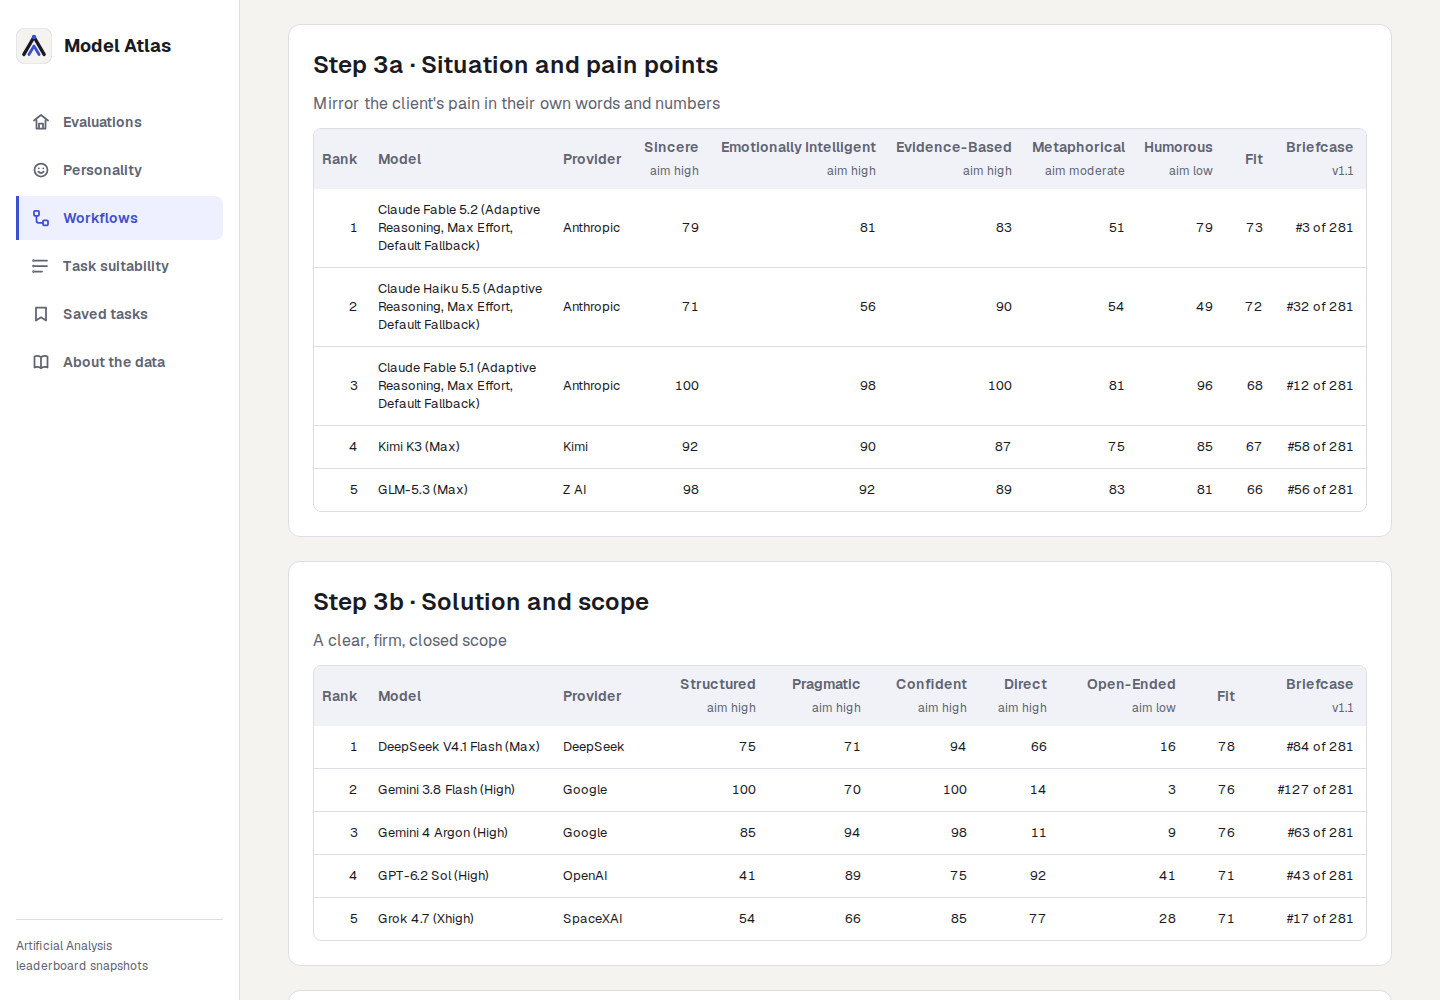
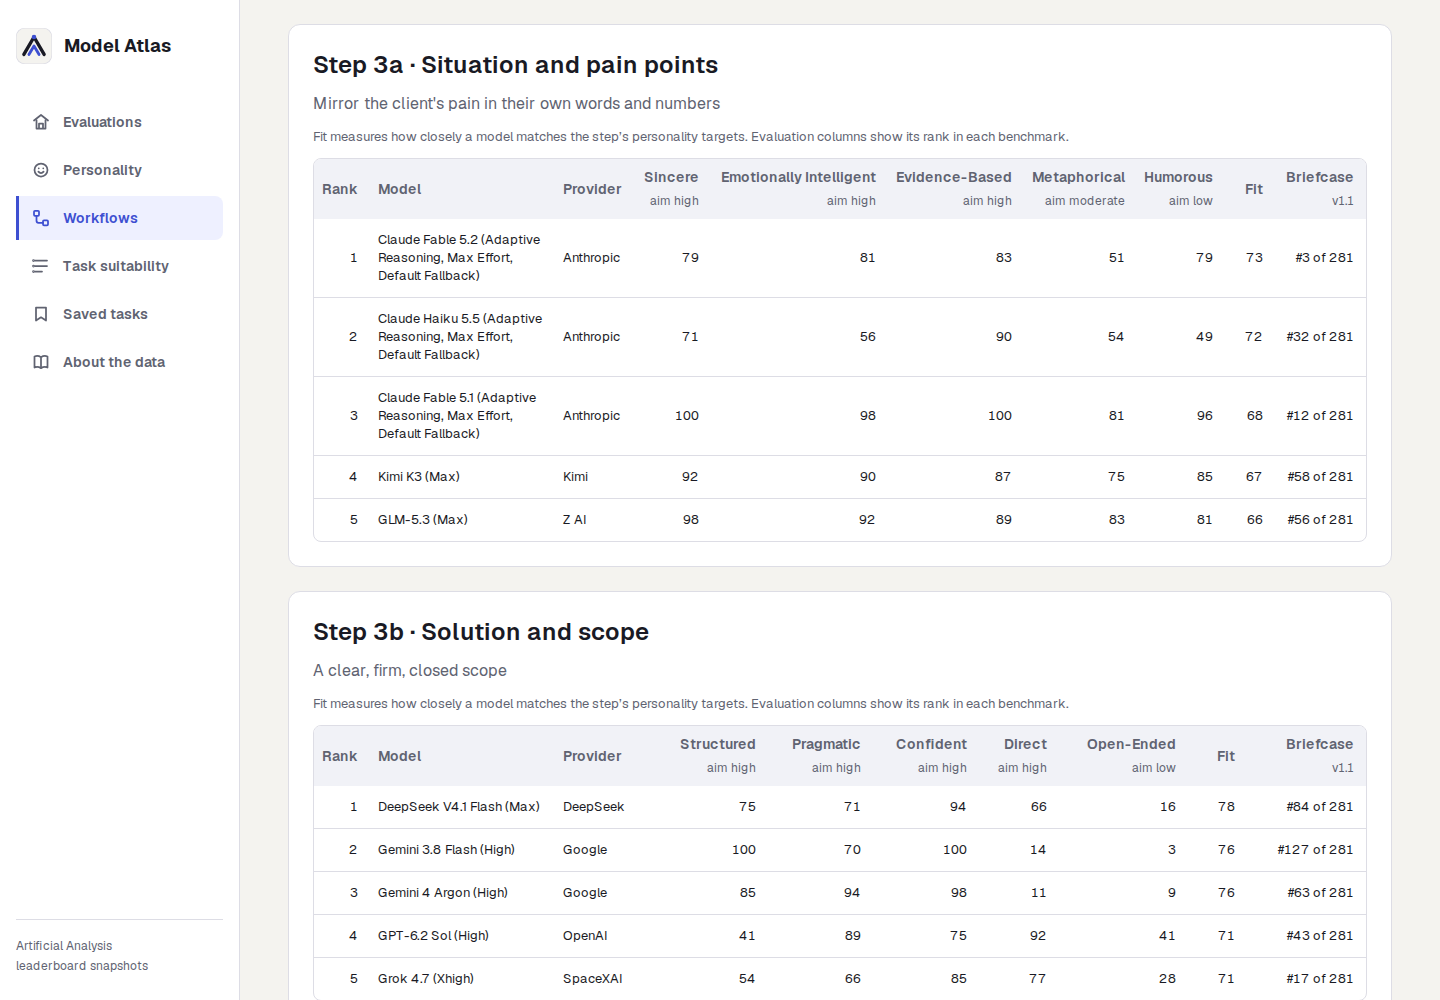
fix: show workflow picks sooner and clarify benchmark ranks

diff --git a/src/components/workflow-view.tsx b/src/components/workflow-view.tsx
@@ -35,28 +35,31 @@ function WorkflowOverview({ steps, dataset }: { steps: LabeledStep[]; dataset: P
       <Table className="workflow-overview-table">
         <thead><tr>
           <th scope="col" className="workflow-pinned">Step</th>
-          <th scope="col">Goal</th>
-          <th scope="col">Aim high</th>
-          <th scope="col">Aim moderate</th>
-          <th scope="col">Aim low</th>
-          <th scope="col">Pick</th>
+          <th scope="col" className="workflow-mobile-pick">Pick</th>
+          <th scope="col" className="workflow-goal">Goal</th>
+          <th scope="col" className="workflow-aim workflow-aim-high">Aim high</th>
+          <th scope="col" className="workflow-aim workflow-aim-moderate">Aim moderate</th>
+          <th scope="col" className="workflow-aim workflow-aim-low">Aim low</th>
+          <th scope="col" className="workflow-desktop-pick">Pick</th>
           <th scope="col">Runners-up</th>
         </tr></thead>
         <tbody>{steps.map(step => {
           const { pick, runnersUp } = stepPicks(step, dataset);
+          const pickContent = pick ? <div className="workflow-pick"><ModelPick row={pick} /></div> : <MissingValue />;
           return <tr key={step.id}>
             <td className="workflow-pinned">
               <span className="workflow-step-number">Step {step.id}</span>
               <a href={`#step-${step.id}`}>{step.title}</a>
             </td>
+            <td className="workflow-mobile-pick">{pickContent}</td>
             <td>{step.goal}</td>
             {aims.map(aim => {
               const labels = [...new Set(step.targets.filter(target => target.aim === aim).map(target => target.label))];
-              return <td key={aim}>{labels.length
+              return <td key={aim} className="workflow-aim">{labels.length
                 ? <div className="workflow-targets">{labels.map(label => <Badge key={label}>{label}</Badge>)}</div>
                 : <MissingValue />}</td>;
             })}
-            <td>{pick ? <div className="workflow-pick"><ModelPick row={pick} /></div> : <MissingValue />}</td>
+            <td className="workflow-desktop-pick">{pickContent}</td>
             <td>{runnersUp.length ? <ul className="workflow-runners-up">
               {runnersUp.map(row => <li key={row.model.identity_key}><ModelPick row={row} /></li>)}
             </ul> : <MissingValue />}</td>
@@ -75,13 +78,20 @@ function WorkflowStepDetail({ step, dataset, masterRows }: {
   const rows = rankStep(step, dataset);
   const evaluationSlugs = [...new Set(step.evaluations)];
   const headingId = `workflow-step-heading-${step.id}`;
+  const rankHelpId = `workflow-step-rank-help-${step.id}`;
   const fewMetrics = step.targets.length + evaluationSlugs.length <= 2;
 
   return <Card className="master workflow-table-card" id={`step-${step.id}`} aria-labelledby={headingId}>
     <h2 id={headingId}>Step {step.id} · {step.title}</h2>
     <p>{step.goal}</p>
+    {evaluationSlugs.length > 0 && <HelperText id={rankHelpId}>
+      Fit measures how closely a model matches the step’s personality targets. Evaluation columns show its rank in each benchmark.
+    </HelperText>}
     <TableScroll label={`Step ${step.id} rankings, scroll horizontally for more columns`} showOverflowCue>
-      <Table className={`workflow-rankings-table${fewMetrics ? " workflow-rankings-table--few-metrics" : ""}`}>
+      <Table
+        aria-describedby={evaluationSlugs.length > 0 ? rankHelpId : undefined}
+        className={`workflow-rankings-table${fewMetrics ? " workflow-rankings-table--few-metrics" : ""}`}
+      >
         <thead><tr>
           <th scope="col" className="numeric">Rank</th>
           <th scope="col" className="workflow-pinned workflow-model">Model</th>

diff --git a/src/app/globals.css b/src/app/globals.css
@@ -2341,11 +2341,12 @@ a.ui-button:hover {
 }
 
 .workflow-overview-table .workflow-pinned { width: 13%; }
-.workflow-overview-table th:nth-child(2) { width: 16%; }
-.workflow-overview-table th:nth-child(3) { width: 16%; }
-.workflow-overview-table th:nth-child(4) { width: 14%; }
-.workflow-overview-table th:nth-child(5) { width: 11%; }
-.workflow-overview-table th:nth-child(6) { width: 14%; }
+.workflow-overview-table .workflow-goal { width: 15%; }
+.workflow-overview-table .workflow-aim-high { width: 17%; }
+.workflow-overview-table .workflow-aim-moderate { width: 14%; }
+.workflow-overview-table .workflow-aim-low { width: 11%; }
+.workflow-overview-table .workflow-desktop-pick { width: 14%; }
+.workflow-overview-table .workflow-mobile-pick { display: none; }
 
 :is(.workflow-overview-table, .workflow-rankings-table) th {
   height: 48px;
@@ -2363,7 +2364,7 @@ a.ui-button:hover {
   vertical-align: top;
 }
 
-.workflow-overview-table :is(th, td):nth-child(n+3):nth-child(-n+5) {
+.workflow-overview-table .workflow-aim {
   padding-inline: var(--space-2);
 }
 
@@ -2396,7 +2397,8 @@ a.ui-button:hover {
 
 .workflow-targets {
   display: flex;
-  flex-wrap: wrap;
+  flex-direction: column;
+  align-items: flex-start;
   gap: var(--space-1);
 }
 
@@ -2476,6 +2478,27 @@ td.workflow-pinned {
 }
 
 @media (max-width: 767px) {
+  .master .workflow-overview-table {
+    min-width: 76rem;
+  }
+
+  .workflow-overview-table .workflow-goal {
+    width: 10rem;
+  }
+
+  .workflow-overview-table th.workflow-aim {
+    width: 11rem;
+  }
+
+  .workflow-overview-table .workflow-mobile-pick {
+    display: table-cell;
+    width: clamp(7rem, calc(100vw - 12.25rem), 12rem);
+  }
+
+  .workflow-overview-table .workflow-desktop-pick {
+    display: none;
+  }
+
   .workflow-table-card .table-overflow-cue-slot:not(:empty) {
     display: flex;
   }

diff --git a/docs/IMPLEMENTATION_PLAN.md b/docs/IMPLEMENTATION_PLAN.md
@@ -70,11 +70,13 @@ Docs), with your hand picks so the app's picks can be checked against them.
     names are the labels from the data, and each step title links to its detail below (`#step-3a`). Then a **detail
     section per step**: its goal, a table of the top 5 (Rank, Model, Provider, one column per target with "aim high",
     "aim moderate" or "aim low" under the trait name, Fit, then one column per evaluation), the "Also check (not in
-    Model Atlas)" line when `other_checks` is set, and the note. An unknown slug is the site's not-found page.
+    Model Atlas)" line when `other_checks` is set, and the note. A short explanation above tables with evaluations
+    distinguishes Fit from benchmark ranks. An unknown slug is the site's not-found page.
 - **Look:** the `/personality` table, chips, buttons and spacing (`src/components/ui/primitives.tsx`, `TableScroll`, the
-  pinned first column). No new colours or components. On a phone, the overview pins the Step column and the detail
-  tables pin Model; both scroll sideways inside their frame, never the page, and the pinned column wraps long names
-  to stay within about 40% of the frame. An anchor jump lands with the step heading visible, not under a sticky bar.
+  pinned first column). No new colours or components. Overview chips stack within their columns. On a phone,
+  Pick follows Step in the overview so both are visible on entry. The overview pins Step and the detail
+  tables pin Model. Horizontal scrolling stays inside the table frames, and pinned columns wrap long names
+  to stay within about 40% of the frame. An anchor jump lands with the step heading clear of the sticky bar.
 - **Where it's linked:** a "Workflows" item in the sidebar (`src/components/app-shell.tsx`) after Personality, with its
   own line icon in the style of the others. No home card.
 - **Shipping:** workflow files ship with the deploy. `npm run publish:data` has nothing to send, and `CLAUDE.md`'s
